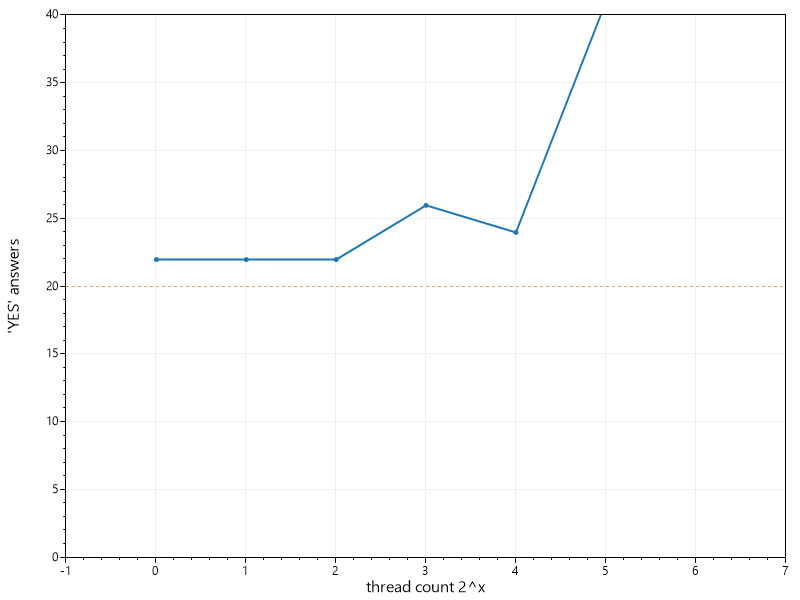
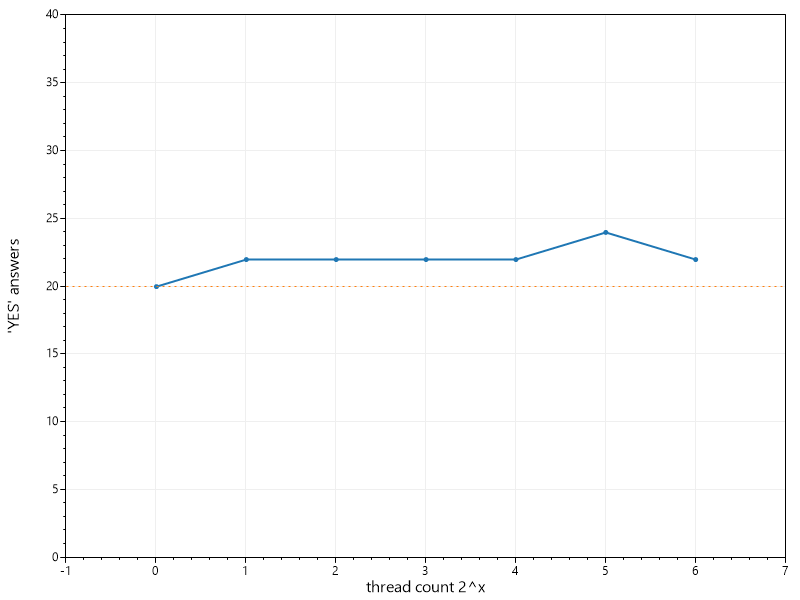
Fix multithreading problem and improve docs

diff --git a/docs/index.html b/docs/index.html
@@ -101,13 +101,14 @@
 <pre><code class="lang-csharp" name="Main" title="Add middleware" highlight-lines="5">public void Configure(IApplicationBuilder app, IWebHostEnvironment env)
 {
     app.UseRouting();
-    // Attention! RateStrictions middleware should be placed between UseRouting and UseEndpoints.
-    app.UseManageRates();
-        .AddNamedPolicy(&quot;userHeader&quot;, 3, Period.Second, context =&gt; context.Request.Headers[&quot;X-userId&quot;])
-    );
-        endpoints.MapGet(&quot;/header&quot;, context =&gt; context.Response.WriteAsync(&quot;header&quot;))
-            .ManageRates(&quot;userHeader&quot;);
 
+    app.UseManageRates();
+
+    app.UseEndpoints(endpoints =&gt;
+    {
+        endpoints.MapControllers();
+    });
+}
 </code></pre>
 <p>Finally, we can use attribute on action of a controller to restrinct it's usage:</p>
 <pre><code class="lang-csharp" name="Main" title="Use EndpointManageRateAttribute" highlight-lines="2">[HttpGet]
@@ -134,12 +135,12 @@ public string Endpoint()
     app.UseRouting();
     app.UseManageRates(policyBuilder =&gt; policyBuilder
         .AddPolicy(&quot;/raw/.*endpoint.*&quot;, 2, Period.Second, KeyType.None)
-        
-        .AddNamedPolicy(&quot;userHeader&quot;, 3, Period.Second, context =&gt; context.Request.Headers[&quot;X-userId&quot;])
     );
-        endpoints.MapGet(&quot;/header&quot;, context =&gt; context.Response.WriteAsync(&quot;header&quot;))
-            .ManageRates(&quot;userHeader&quot;);
-
+    app.UseEndpoints(endpoints =&gt;
+    {
+        endpoints.MapControllers();
+    });
+}
 </code></pre><h4 id="add-restriction-functionality-during-endpoint-configuration">Add restriction functionality during endpoint configuration:</h4>
 <p>Firstly we need to regitster neccessary services:</p>
 <pre><code class="lang-csharp" name="Main" title="Register services" highlight-lines="8">public void ConfigureServices(IServiceCollection services)
@@ -156,13 +157,13 @@ public string Endpoint()
 <pre><code class="lang-csharp" name="Main" title="Add middleware" highlight-lines="7">public void Configure(IApplicationBuilder app, IWebHostEnvironment env)
 {
     app.UseRouting();
-        .AddNamedPolicy(&quot;userHeader&quot;, 3, Period.Second, context =&gt; context.Request.Headers[&quot;X-userId&quot;])
-    );
-
     app.UseEndpoints(endpoints =&gt;
-        endpoints.MapGet(&quot;/header&quot;, context =&gt; context.Response.WriteAsync(&quot;header&quot;))
-            .ManageRates(&quot;userHeader&quot;);
-
+    {
+        endpoints.MapGet(&quot;/endpoint&quot;, context =&gt; context.Response.WriteAsync(&quot;endpoint&quot;))
+            .ManageRates(2, Period.Second, KeyType.RequestPath);
+        endpoints.MapControllers();
+    });
+}
 </code></pre><h2 id="benchmark-results">Benchmark results</h2>
 <pre><code class="lang-ini">
 BenchmarkDotNet=v0.12.1, OS=Windows 10.0.18363.836 (1909/November2018Update/19H2)
@@ -181,22 +182,25 @@ Intel Core i7-9750H CPU 2.60GHz, 1 CPU, 12 logical and 6 physical cores
 <th style="text-align: right;">Error</th>
 <th style="text-align: right;">StdDev</th>
 <th style="text-align: right;">Ratio</th>
+<th style="text-align: right;">RatioSD</th>
 </tr>
 </thead>
 <tbody>
 <tr>
 <td>Single</td>
-<td style="text-align: right;">13.162 ms</td>
-<td style="text-align: right;">0.0298 ms</td>
-<td style="text-align: right;">0.0265 ms</td>
-<td style="text-align: right;">2.12</td>
+<td style="text-align: right;">12.385 ms</td>
+<td style="text-align: right;">0.0287 ms</td>
+<td style="text-align: right;">0.0255 ms</td>
+<td style="text-align: right;">2.06</td>
+<td style="text-align: right;">0.02</td>
 </tr>
 <tr>
 <td>First</td>
-<td style="text-align: right;">6.215 ms</td>
-<td style="text-align: right;">0.0462 ms</td>
-<td style="text-align: right;">0.0432 ms</td>
+<td style="text-align: right;">6.013 ms</td>
+<td style="text-align: right;">0.0669 ms</td>
+<td style="text-align: right;">0.0626 ms</td>
 <td style="text-align: right;">1.00</td>
+<td style="text-align: right;">0.00</td>
 </tr>
 </tbody>
 </table>

diff --git a/src/ManageRates.Core/src/Policies/KeyedTimeRatePolicy.cs b/src/ManageRates.Core/src/Policies/KeyedTimeRatePolicy.cs
@@ -29,11 +29,17 @@ namespace ManageRates.Core.Policies
         /// <inheritdoc/>
         public bool IsPermitted(string key, ITimeService timeService, IMemoryCache memoryCache)
         {
-            var timeQueue = memoryCache.GetOrCreate(key, cacheEntry =>
+            Queue<DateTime>? timeQueue = null;
+
+            // temporary solution of the multighreading problem (see Efficiency image)
+            lock (memoryCache)
             {
-                cacheEntry.SlidingExpiration = _ratePeriod;
-                return new Queue<DateTime>(_rateCount);
-            });
+                timeQueue = memoryCache.GetOrCreate(key, cacheEntry =>
+                {
+                    cacheEntry.SlidingExpiration = _ratePeriod;
+                    return new Queue<DateTime>(_rateCount);
+                });
+            }
 
             lock (timeQueue)
             {

diff --git a/docfx_project/index.md b/docfx_project/index.md
@@ -30,7 +30,7 @@ Test of throttling. There is a log of work to this component it I want it works 
 Firstly we need to regitster neccessary services:
 [!code-csharp[Main](../samples/WebApi/Startup.cs?name=configure_services&highlight=8 "Register services")]
 and add the middleware:
-[!code-csharp[Main](../samples/WebApi/Startup.cs?range=35-36,43,45,47,56-57,70-72&highlight=5 "Add middleware")]
+[!code-csharp[Main](../samples/WebApi/Startup.cs?range=35-36,43-44,47,58-60,79-81&highlight=5 "Add middleware")]
 
 Finally, we can use attribute on action of a controller to restrinct it's usage:
 [!code-csharp[Main](../samples/WebApi/Controllers/MethodAttributesController.cs?name=endpoint_attribute_sample&highlight=2 "Use EndpointManageRateAttribute")]
@@ -42,7 +42,7 @@ Firstly we need to regitster neccessary services:
 [!code-csharp[Main](../samples/WebApi/Startup.cs?name=configure_services&highlight=8 "Register services")]
 
 Then we can add the middleware where we describe set of endpoints by regular expression:
-[!code-csharp[Main](../samples/WebApi/Startup.cs?range=35-36,43,49-50,54,56-57,70-72&highlight=4-6 "Add middleware")]
+[!code-csharp[Main](../samples/WebApi/Startup.cs?range=35-36,43,49-50,57,59-60,79-81&highlight=4-6 "Add middleware")]
 
 #### Add restriction functionality during endpoint configuration:
 
@@ -50,7 +50,7 @@ Firstly we need to regitster neccessary services:
 [!code-csharp[Main](../samples/WebApi/Startup.cs?name=configure_services&highlight=8 "Register services")]
 
 Then we can add the middleware where we describe set of endpoints by regular expression:
-[!code-csharp[Main](../samples/WebApi/Startup.cs?range=35-36,43,56-59,70-72&highlight=7 "Add middleware")]
+[!code-csharp[Main](../samples/WebApi/Startup.cs?range=35-36,43,59-62,79-81&highlight=7 "Add middleware")]
 
 ## Benchmark results
 
